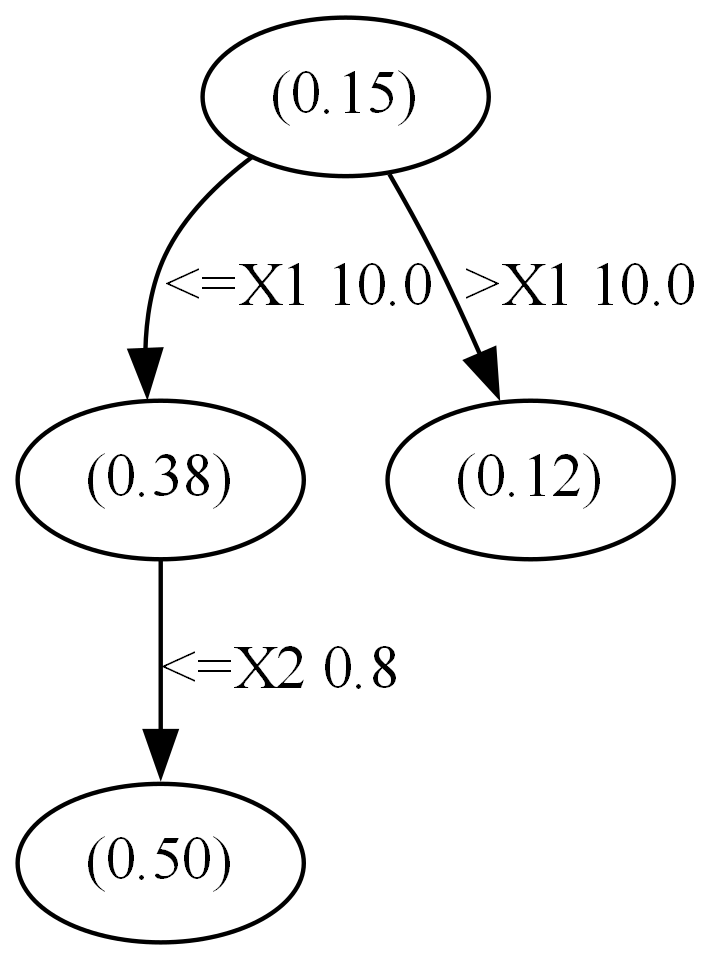
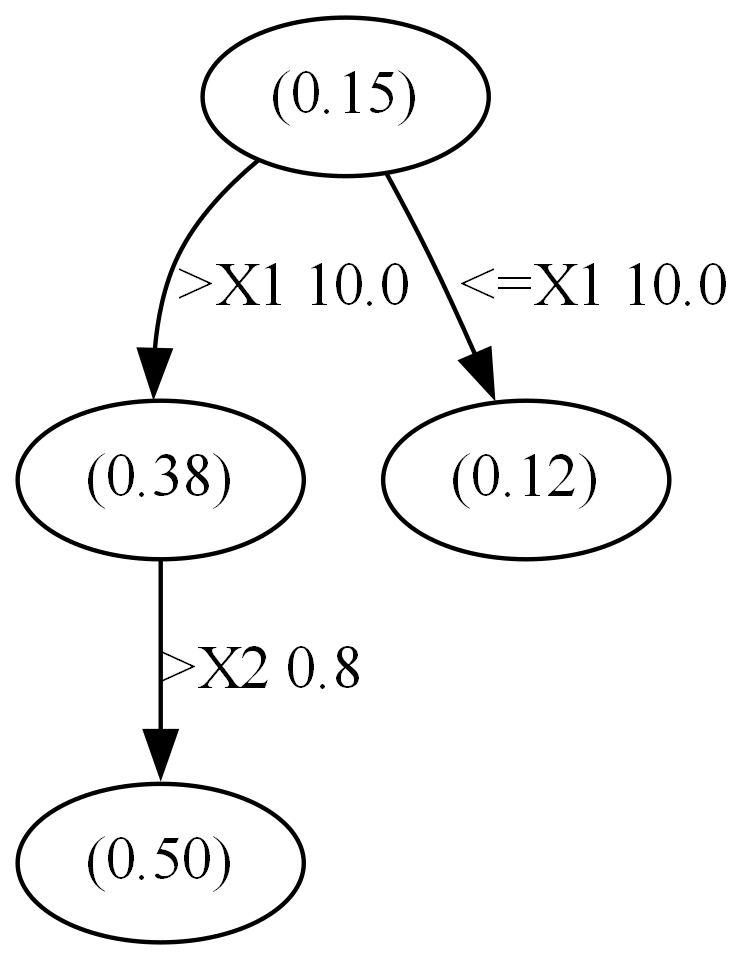
clear code

diff --git a/gini.py b/gini.py
@@ -1,51 +1,88 @@
 import pandas as pd
+import graphviz
+
 
 class Gini():
     def __init__(self, file) -> None:
         self.df = pd.read_csv(file)
         self.df = pd.DataFrame(self.df)
+        self.tree = [] # liste qui contient les seuils optimaux, avec leur gini et variable
         self.main()
 
-    def main(self):
-        df = self.df # dataframe
-        tab_gini = pd.DataFrame(columns=['variable', 'seuil','gini']) # stocker les valeurs des indices de Gini, leurs seuils et variables correspondantes
-        
+    def division(self, df):
+        # stocker les valeurs des indices de Gini, leurs seuils et variables correspondantes
+        tab_gini = pd.DataFrame(columns=['variable', 'seuil', 'gini'])
+
         # calcul de Dk
-        p1 = df['Y'].value_counts().A # nombre de modalités A dans ce noeud
+        p1 = df['Y'].value_counts().A  # nombre de modalités A dans ce noeud
         p2 = df['Y'].value_counts().B
-        n = p1 + p2 # nombre d'individus
-        Dk = 1 - ((p1/n)**2 + (p2/n)**2) # indice de Gini avant séparation
-        
+        n = p1 + p2  # nombre d'individus
+        Dk = 1 - ((p1/n)**2 + (p2/n)**2)  # indice de Gini avant séparation
+
         # parcourir chaque variable X1, X2...
-        
         i = 0
         for x in df.columns[1:]:
             # parcourir chaque valeur de cette variable comme seuil
             for seuil in df[x]:
-                noeud_gauche = df[df[x] <= seuil].Y # liste des modalités du noeud de gauche respectant le seuil
+                # liste des modalités du noeud de gauche respectant le seuil
+                noeud_gauche = df[df[x] <= seuil].Y
                 noeud_droite = df[df[x] > seuil].Y
-                
+
                 # calculer l'indice de gini seulement lorsque le noeud n'est pas totalement pur (contient des modalités différentes)
+                Dkg, Dkd = 0, 0
                 if 'A' in noeud_gauche.tolist() and 'B' in noeud_gauche.tolist():
-                    p1g = noeud_gauche.value_counts().A 
+                    p1g = noeud_gauche.value_counts().A
                     p2g = noeud_gauche.value_counts().B
-                    ng = p1g + p2g 
-                    Dkg = (1 - ((p1g/ng)**2 + (p2g/ng)**2)) * (ng/n) # indice de Gini de ce noeud
-                    
-                
+                    ng = p1g + p2g
+                    Dkg = (1 - ((p1g/ng)**2 + (p2g/ng)**2)) * \
+                        (ng/n)  # indice de Gini de ce noeud
+
                 if 'A' in noeud_droite.tolist() and 'B' in noeud_droite.tolist():
                     p1d = noeud_droite.value_counts().A
                     p2d = noeud_droite.value_counts().B
                     nd = p1d + p2d
                     Dkd = (1 - ((p1d/nd)**2 + (p2d/nd)**2)) * (nd/n)
-                
-                gini = Dk - (Dkg + Dkd) # indice de Gini global
-                tab_gini.loc[i] = [x, seuil, gini] # ajout des informations
+
+                gini = Dk - (Dkg + Dkd)  # indice de Gini global
+                tab_gini.loc[i] = [x, seuil, gini]  # ajout des informations
                 i += 1
-        
-        tab_gini.sort_values(by="gini", ascending=False, inplace = True)
+
+        tab_gini.sort_values(by="gini", ascending=False, inplace=True)
         tab_gini.reset_index(drop=True, inplace=True)
-        print(tab_gini)
-    
+        return tab_gini.iloc[0]
+
+    def recursion(self, df, level=0):
+        result = self.division(df) # recuperer le meilleur seuil pour ces données
+        self.tree.append([level, result['variable'],
+                         result['seuil'], result['gini']]) # ajouter informations du seuil dans l'arbre
+        df_gauche = df[df[result['variable']] <= result['seuil']] # séparer les données selon le seuil
+        df_droite = df[df[result['variable']] > result['seuil']]
+        if 'A' in df_gauche.Y.tolist() and 'B' in df_gauche.Y.tolist():
+            self.recursion(df_gauche, level + 1) # séparer les données récursivement
+        if 'A' in df_droite.Y.tolist() and 'B' in df_droite.Y.tolist():
+            self.recursion(df_droite, level + 1)
+
+    def display(self):
+        """
+            tentative d'affichage de l'arbre ;)
+        """
+        dot = graphviz.Digraph(comment='Arbre de décision', graph_attr={'size': '10,10!'})
+        for noeud in self.tree:
+            level, variable, seuil, gini = noeud
+            dot.node(f"{variable} {seuil} ({gini:.2f})",
+                     label=f"({gini:.2f})", shape="oval")
+            if level > 0:
+                parent = self.tree[level - 1]
+                parent_variable, parent_seuil, _ = parent[1:]
+                signe = f"<={parent_variable} {parent_seuil}" if parent_variable == variable else f">{parent_variable} {parent_seuil}"
+                dot.edge(
+                    f"{parent_variable} {parent_seuil} ({parent[3]:.2f})", f"{variable} {seuil} ({gini:.2f})", label=signe)
+        dot.render("arbre_decision", view=True, format="png")
+
+    def main(self):
+        self.recursion(self.df)
+        self.display() # afficher l'arbre avec graphviz
+        print(self.tree)
+
 if __name__ == "__main__":
     Gini('data.csv')
